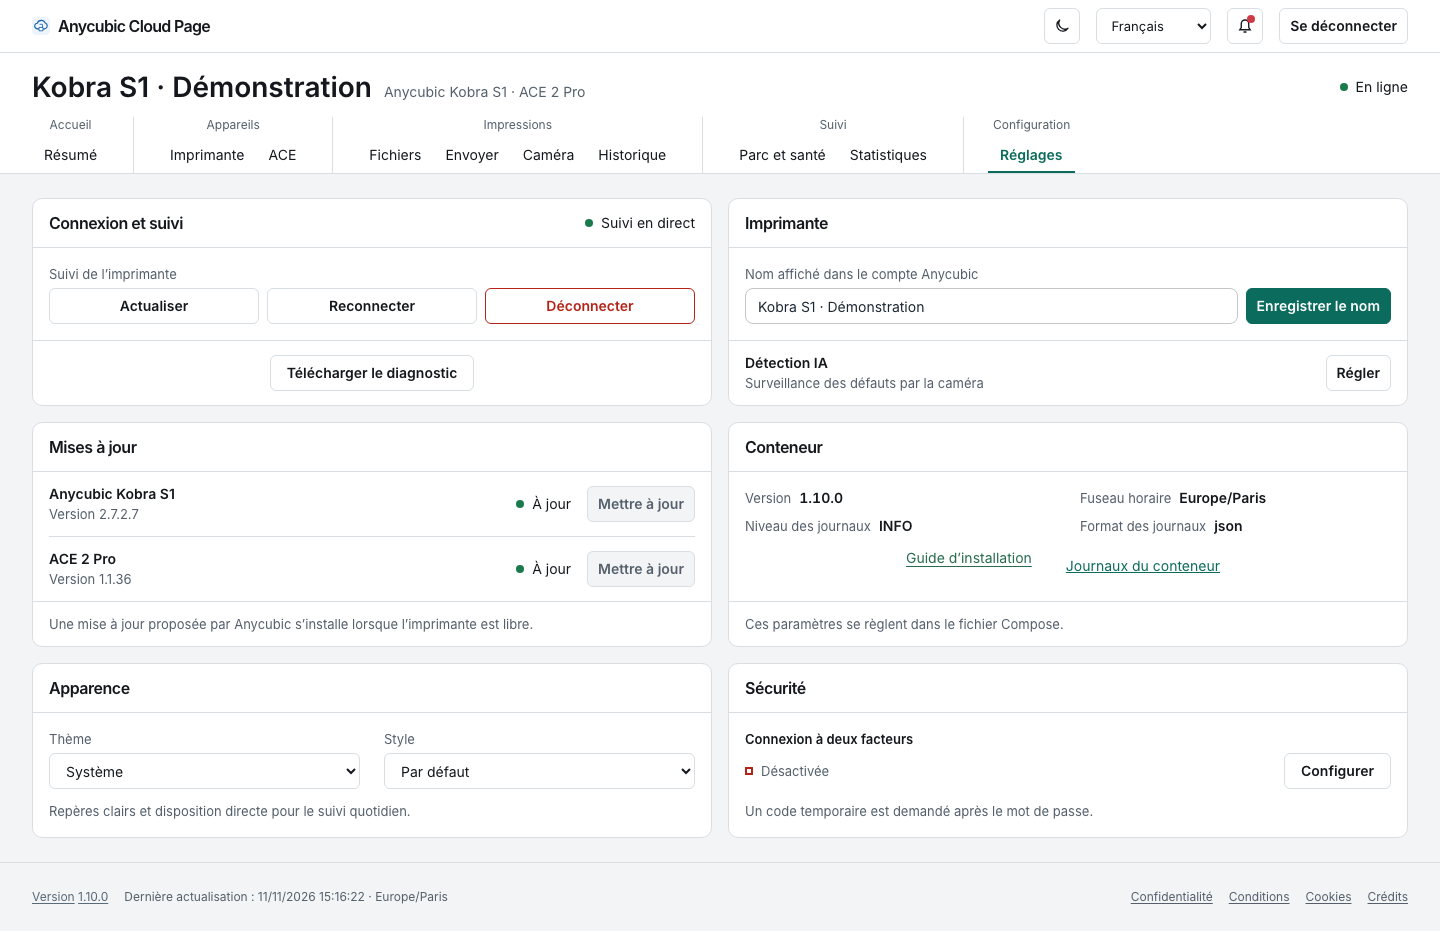
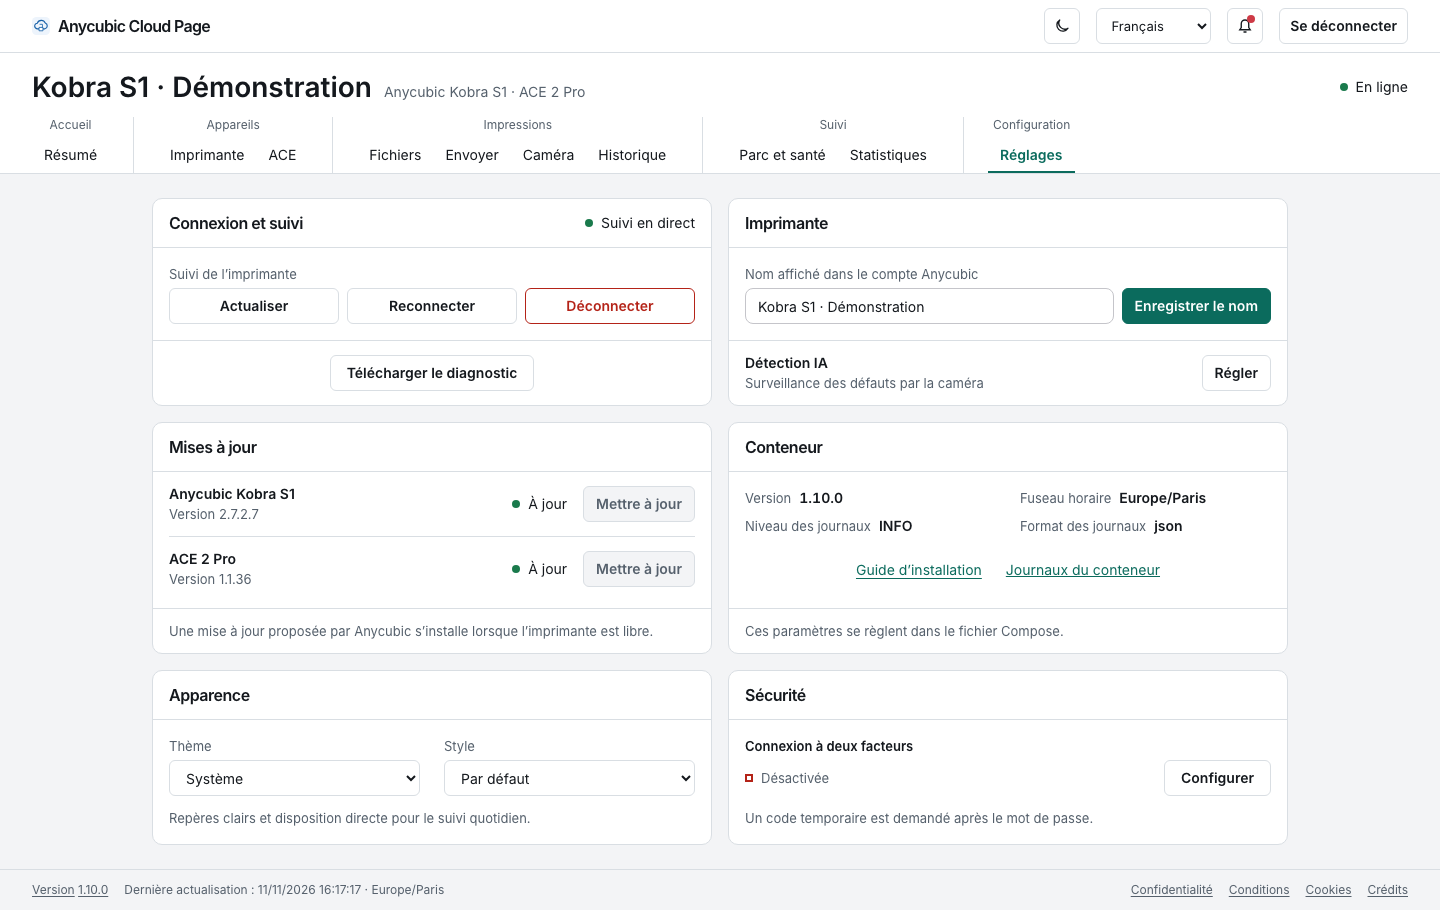
Aligner les deux liens de la carte Conteneur

diff --git a/web/css/atelier-settings.css b/web/css/atelier-settings.css
@@ -79,6 +79,7 @@
 .settings-container-values > div { flex-wrap: wrap; }
 .settings-container-links {
   display: flex;
+  align-items: center;
   justify-content: center;
   flex-wrap: wrap;
   gap: var(--atelier-space-2) var(--atelier-space-5);
